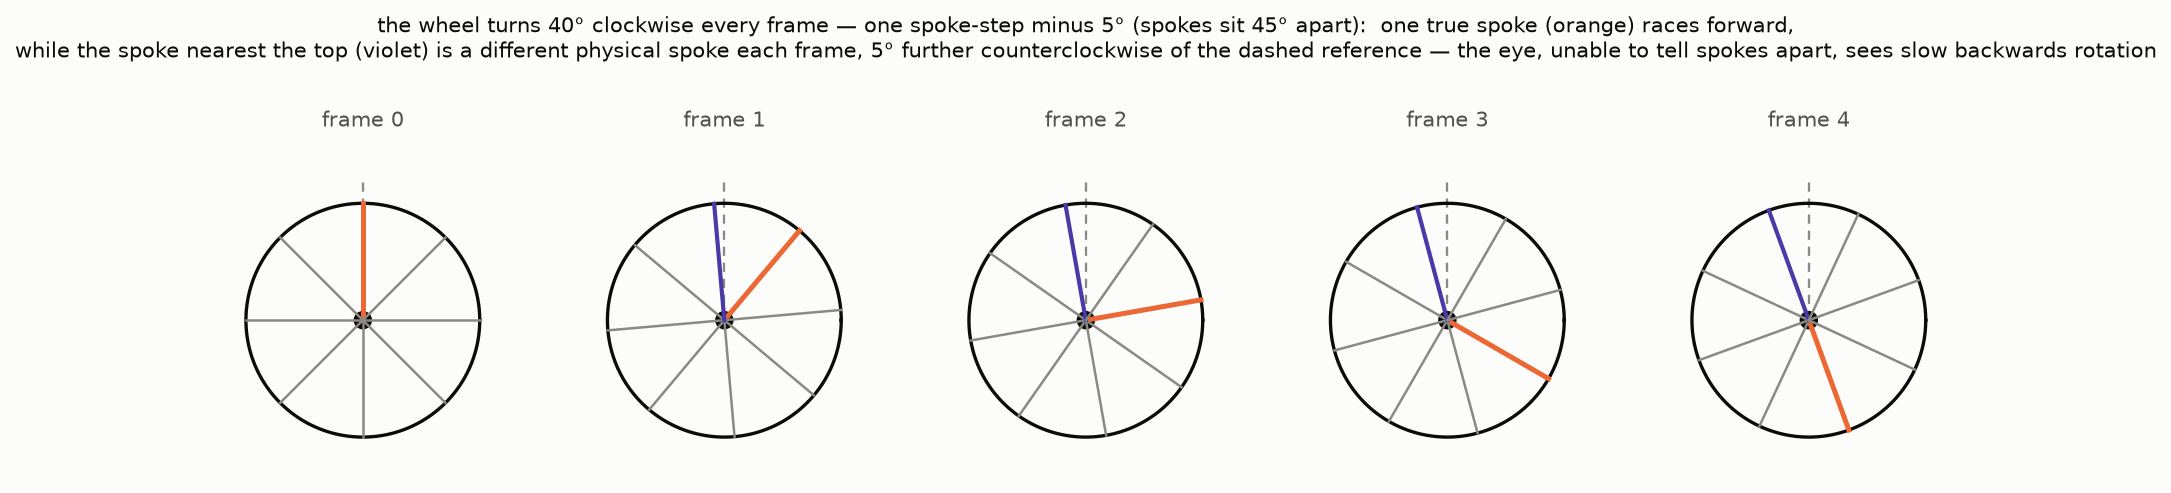
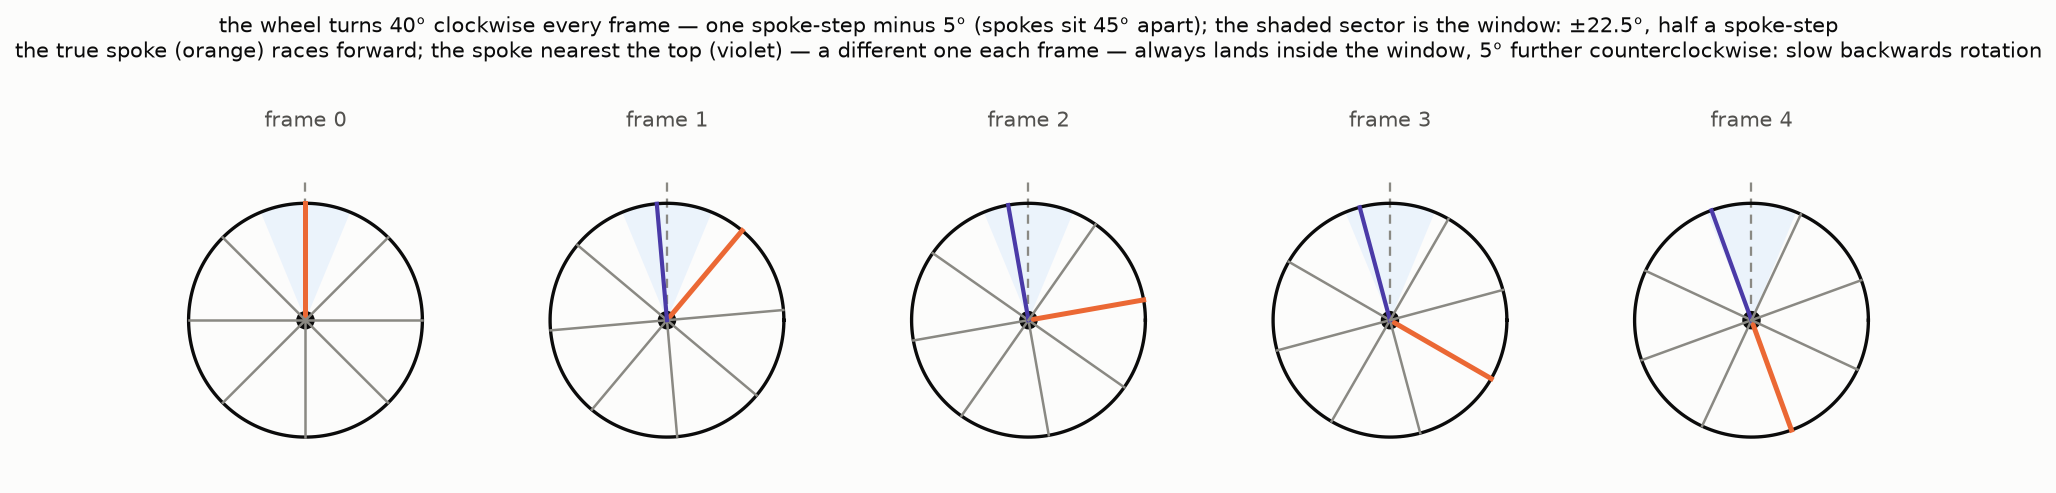
Three Names: the window as a sector on the wheels, plus the honest-rate strip
- Both wheel figures now shade the +/-22.5-degree sector - half a
  spoke-step, the displacement window f_s/2 in degrees - with the same
  band fill as the frequency-axis windows
- General nearest-top-spoke formula (the old one was hardwired to the
  40-degree step)
- New wagon_wheel_fast.png: eight times the frames, 5 degrees per
  frame, the top spoke is the true spoke and the film reads the
  rotation correctly; embedded after the dictionary paragraph

diff --git a/content/posts/the-theorem-with-three-names/index.md b/content/posts/the-theorem-with-three-names/index.md
@@ -332,6 +332,12 @@ rotation, run the other way. One ninth of a pattern-period is
 $\frac{45°}{9} = 5°$ — the eye's backwards drift per frame, this time
 computed rather than observed.
 
+And here is what an honest frame rate looks like. Give the film eight
+times the frames, so the wheel turns only $5°$ per true frame — safely
+inside the window — and the illusion evaporates:
+
+![The same wheel at eight times the frame rate: the top spoke is the true spoke, advancing correctly](wagon_wheel_fast.png)
+
 The same fine print explains a famous number. Human hearing ends near
 $20$ kHz, so audio needs $f_s > 40$ kHz — and CDs run at
 [$44.1$ kHz](https://en.wikipedia.org/wiki/44,100_Hz). Why the extra
